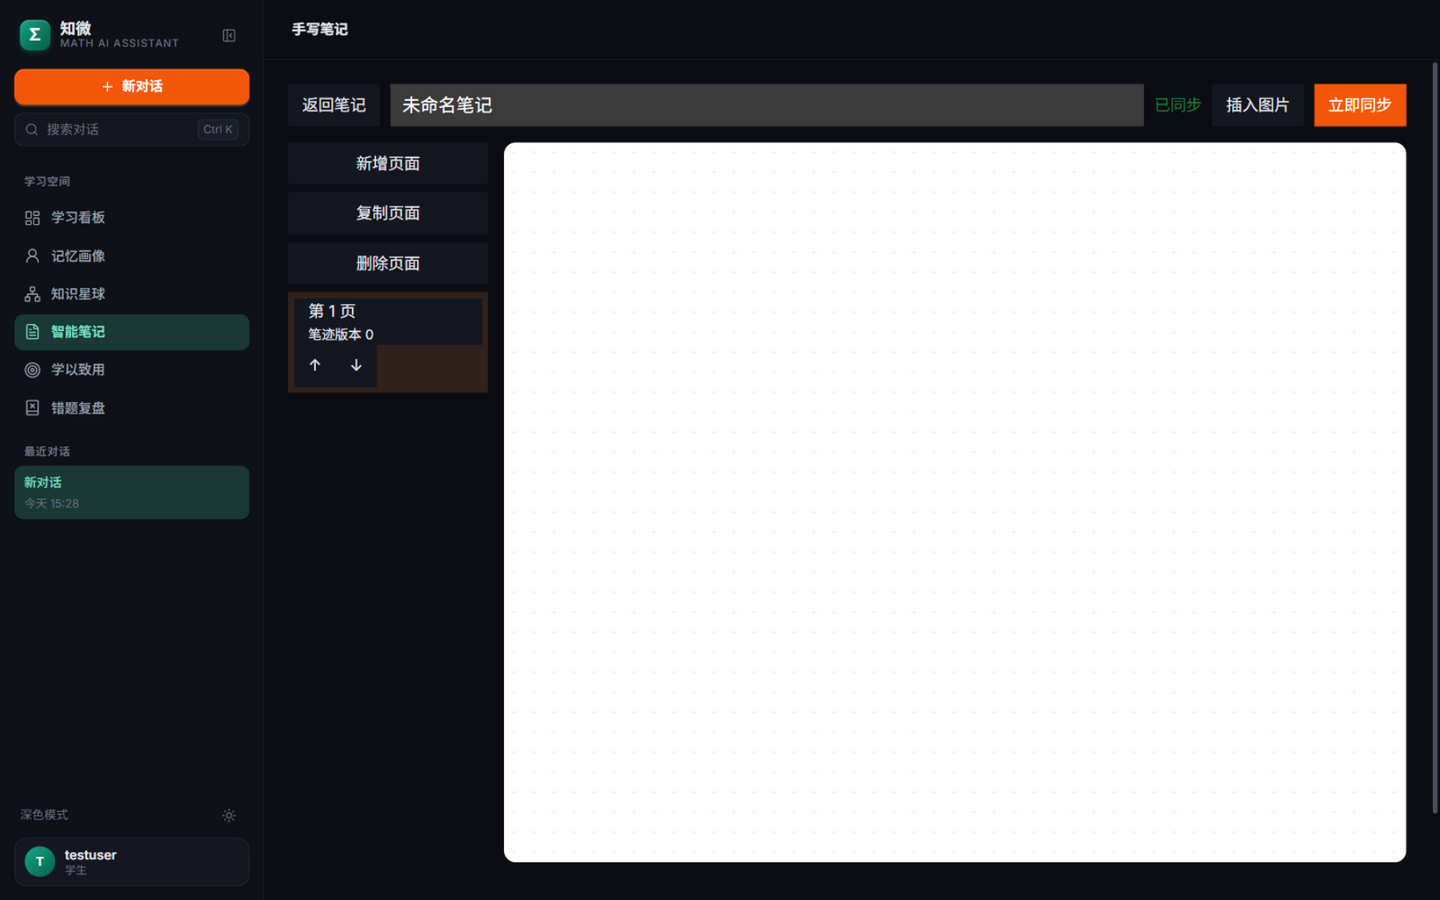
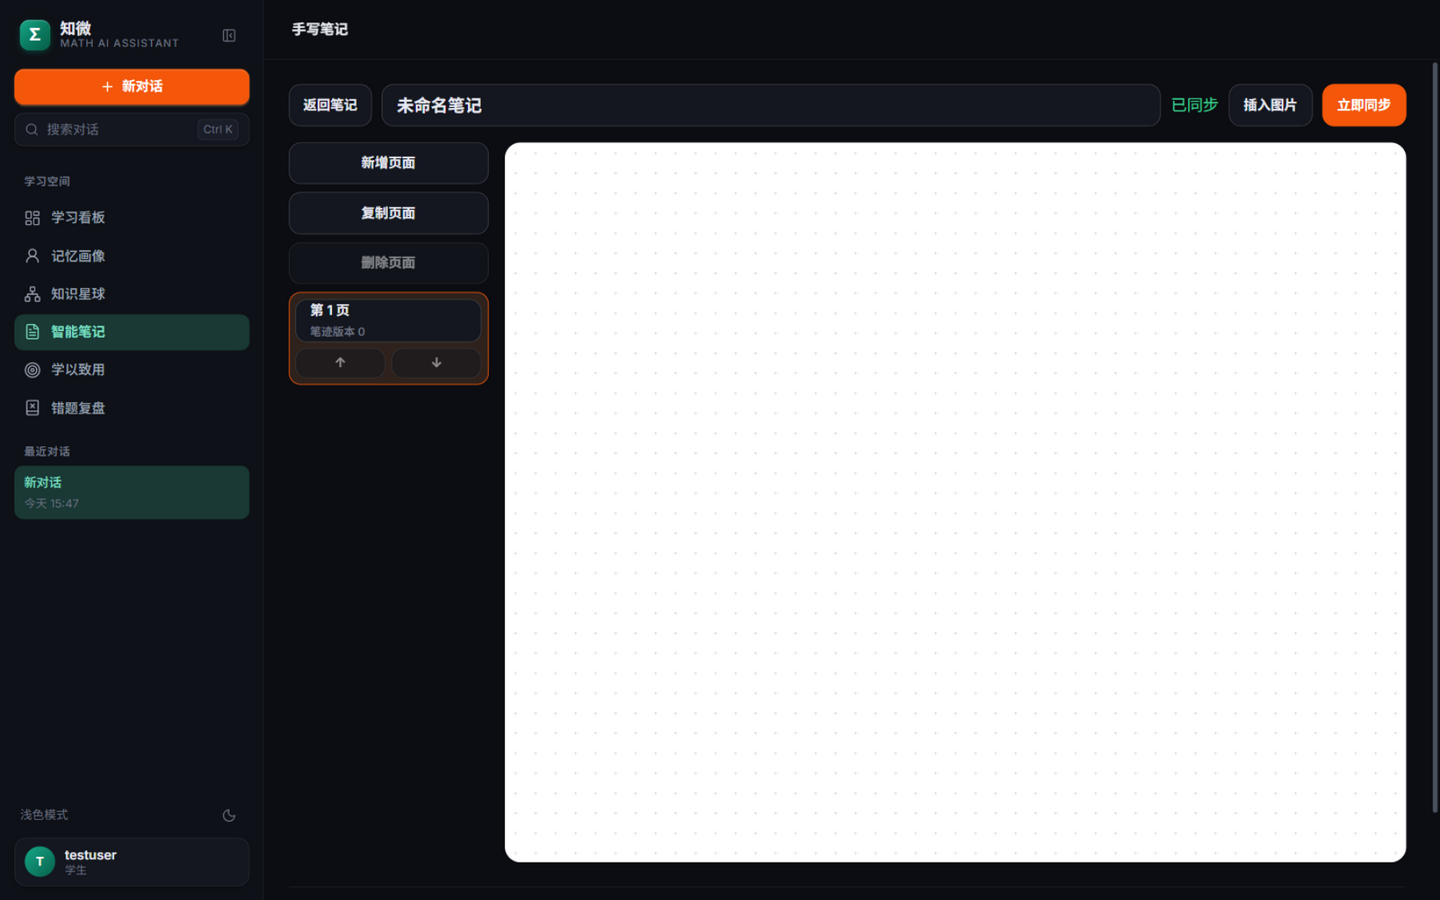
feat(design-v4) 笔记两页 V4 重皮
- 根因修复:两页沿用已删除的 V3 令牌名(--text-secondary/--border-subtle/
  --radius-sm 等),P5 删别名层后全部未定义,边框/颜色渲染失效;全量替换
  为 V4 令牌(ink/border/r-*/rose/green/teal/amber/shadow)
- 笔记库:page-head 字体阶梯、过滤条卡片化、笔记卡 shadow-1→hover
  shadow-2、空态/分页器/错误语义化,补 focus-visible 环与
  prefers-reduced-motion
- 手写工作台:工具栏/标题输入/同步状态语义色(绿=已同步,amber=离线,
  rose=冲突失败)、冲突面板 rose-soft 语义盒、页面缩略卡 accent 选中态、
  AI 建议卡令牌化;画布纸面固定浅色(笔迹墨色 #172554 深色,不随主题
  翻转),点阵色从靛蓝 #dbeafe 中性化为灰
- 模板与逻辑零改动,仅 style 块替换

验证:vitest 40 文件/145 用例、build、budget 全绿;亮暗 1440+375 走查
截图更新至 design-preview/qa/notes/(六张全量替换)

Changed region(s): [[0.1875, 0.0933, 0.9688, 0.1867], [0.1875, 0.28, 0.3438, 0.4356], [0.25, 0.2178, 0.3125, 0.2489]]

diff --git a/frontend/src/views/NoteWorkspaceView.vue b/frontend/src/views/NoteWorkspaceView.vue
@@ -48,4 +48,51 @@ function onVisibilityChange(){if(document.visibilityState==='hidden')persistBefo
 watch(strokes,()=>nextTick(render),{deep:true});onMounted(async()=>{await load();window.addEventListener('online',retry);document.addEventListener('visibilitychange',onVisibilityChange);window.addEventListener('beforeunload',persistBeforeExit)});onBeforeUnmount(()=>{persistBeforeExit();syncController?.dispose();window.removeEventListener('online',retry);document.removeEventListener('visibilitychange',onVisibilityChange);window.removeEventListener('beforeunload',persistBeforeExit)})
 </script>
 <template><AppShell><template #topbar-title>手写笔记</template><main class="workspace"><header><button @click="returnToOrigin">{{ route.query.from ? '返回学习内容' : '返回笔记' }}</button><input v-model="title" maxlength="200" aria-label="笔记标题" @change="rename"><span :class="status" role="status">{{ statusText }}</span><input ref="fileInput" class="sr-only" type="file" accept="image/png,image/jpeg,image/gif,image/webp" @change="uploadImage"><button @click="fileInput?.click()">插入图片</button><button v-if="status==='failed'||status==='offline'" @click="retry">重试同步</button><button class="primary" :disabled="status==='loading'||status==='syncing'||status==='conflict'" @click="save">立即同步</button></header><section v-if="conflict" class="conflict-panel" role="alert"><strong>发现版本冲突</strong><p>此页已在另一台设备或窗口更新。服务器版本 {{ conflict.serverRevision }} 与本机未同步笔迹都已保留。选择保留服务器版本，或将本机版本复制为新页面。</p><button @click="keepServer">保留服务器版本</button><button class="primary" @click="copyLocalAsNewPage">复制本地版本为新页面</button></section><p v-if="error" class="error">{{error}}</p><details v-if="syncLog.length" class="sync-log"><summary>同步记录（最近 {{ syncLog.length }} 条）</summary><ol><li v-for="entry in syncLog" :key="`${entry.at}-${entry.event}`">{{ new Date(entry.at).toLocaleString() }}：{{ entry.event }}</li></ol></details><div class="layout"><aside class="pages" aria-label="页面管理"><button @click="addPage">新增页面</button><button :disabled="!page" @click="copyCurrent">复制页面</button><button :disabled="pages.length<=1" @click="removeCurrent">删除页面</button><article v-for="(item,index) in pages" :key="item.page_id" class="thumb" :class="{active:item.page_id===page?.page_id}"><button class="preview" @click="openPage(item)"><span>第 {{item.page_number}} 页</span><small>笔迹版本 {{item.current_revision}}</small></button><div><button :disabled="!index" :aria-label="`上移第 ${item.page_number} 页`" @click="movePage(index,-1)">↑</button><button :disabled="index===pages.length-1" :aria-label="`下移第 ${item.page_number} 页`" @click="movePage(index,1)">↓</button></div></article></aside><section class="canvas-wrap"><canvas ref="canvas" aria-label="单页手写画布，仅支持触控笔书写" @pointerdown="down" @pointermove="move" @pointerup="up" @pointercancel="up"/><img v-for="asset in assets" :key="asset.asset_id" :src="asset.url" :alt="asset.filename" @error="error='图片加载失败，笔迹未受影响'"/></section></div><section class="suggestions" aria-labelledby="suggestions-title"><div><h2 id="suggestions-title">待确认的 AI 归类</h2><button :disabled="suggestionsLoading" @click="loadSuggestions">刷新</button></div><p v-if="suggestionsLoading" role="status">正在加载建议…</p><p v-else-if="!suggestions.some(item=>item.status==='suggested')">暂无待确认建议。低置信度结果不会自动归类。</p><article v-for="item in suggestions.filter(item=>item.status==='suggested')" :key="item.link_id"><strong>{{ item.knowledge_point_name || item.knowledge_point_code }}</strong><span>置信度 {{ Math.round(item.confidence * 100) }}%</span><label :for="`suggestion-${item.link_id}`">改为其他知识点 ID（可选）</label><input :id="`suggestion-${item.link_id}`" v-model="suggestionEdits[item.link_id]" placeholder="保留当前建议"><button class="primary" @click="confirmSuggestion(item)">确认</button><button class="danger" @click="rejectSuggestion(item)">拒绝</button></article><details v-if="suggestions.some(item=>item.status==='confirmed')"><summary>已确认关联（可撤销）</summary><article v-for="item in suggestions.filter(item=>item.status==='confirmed')" :key="item.link_id"><strong>{{ item.knowledge_point_name || item.knowledge_point_code }}</strong><span>{{ item.source==='manual' ? '人工确认' : 'AI 自动关联' }}</span><button class="danger" @click="rejectSuggestion(item)">撤销</button></article></details></section></main></AppShell></template>
-<style scoped>.workspace{max-width:1280px;margin:auto;padding:24px}.workspace header{display:flex;align-items:center;gap:10px}.workspace input{flex:1;min-height:42px;padding:0 12px;border:1px solid var(--border-subtle);border-radius:var(--radius-sm);font-size:18px}.workspace button{min-height:42px;padding:0 14px;border:1px solid var(--border-subtle);border-radius:var(--radius-sm);background:var(--surface);cursor:pointer}.workspace .primary{background:var(--accent);border-color:var(--accent);color:white}.workspace .danger{color:#b91c1c}.layout{display:grid;grid-template-columns:200px minmax(0,1fr);gap:16px;margin-top:16px}.pages{display:grid;align-content:start;gap:8px}.thumb,.suggestions article{border:1px solid var(--border-subtle);border-radius:var(--radius-sm);padding:6px}.thumb.active{border-color:var(--accent);background:var(--accent-soft)}.preview{width:100%;min-height:96px;display:grid;text-align:left;background:radial-gradient(#dbeafe 1px,transparent 1px) 0 0/12px 12px,#fff}.pages small{color:var(--text-secondary)}.canvas-wrap{height:calc(100vh - 180px);min-height:500px;border:1px solid var(--border-subtle);border-radius:12px;overflow:hidden;background:radial-gradient(#dbeafe 1px,transparent 1px) 0 0/20px 20px,#fff;touch-action:none}.canvas-wrap canvas{height:100%;width:100%;display:block;touch-action:none}.suggestions{margin-top:24px;border-top:1px solid var(--border-subtle);padding-top:16px}.suggestions>div,.suggestions article{display:flex;align-items:center;gap:10px;flex-wrap:wrap}.suggestions h2{margin:0;font-size:20px}.suggestions label{font-size:14px}.suggestions input{flex:1 1 240px}.synced{color:#15803d}.local,.offline,.failed,.conflict,.error{color:#b91c1c}.syncing{color:#0369a1}.error{margin:12px 0}@media(max-width:700px){.workspace{padding:12px}.workspace header{flex-wrap:wrap}.workspace header input{order:3;flex-basis:100%}.layout{grid-template-columns:1fr}.pages{grid-template-columns:repeat(3,minmax(0,1fr))}.canvas-wrap{height:65vh;min-height:360px}.suggestions article>*{flex-basis:100%}}</style>
+<style scoped>
+.workspace { max-width: 1280px; margin: auto; padding: 24px; }
+.workspace header { display: flex; align-items: center; gap: 10px; }
+.workspace header input { flex: 1; min-width: 0; min-height: 42px; padding: 0 14px; border: 1px solid var(--border-strong); border-radius: var(--r-m); background: var(--surface); color: var(--ink-1); font: inherit; font-size: 17px; font-weight: 600; }
+.workspace header input:focus-visible { outline: 2px solid var(--accent); outline-offset: 1px; }
+.workspace button { min-height: 42px; padding: 0 14px; border: 1px solid var(--border-strong); border-radius: var(--r-m); background: var(--surface); color: var(--ink-1); font: inherit; font-size: 13.5px; font-weight: 600; cursor: pointer; transition: background .15s ease, border-color .15s ease; }
+.workspace button:hover:not(:disabled) { border-color: var(--accent); color: var(--accent-text); }
+.workspace button:disabled { opacity: .55; cursor: not-allowed; }
+.workspace button:focus-visible { outline: 2px solid var(--accent); outline-offset: 2px; }
+.workspace .primary { background: var(--accent); border-color: var(--accent); color: #fff; }
+.workspace .primary:hover:not(:disabled) { background: var(--accent-strong); border-color: var(--accent-strong); color: #fff; }
+.workspace .danger { color: var(--rose); }
+.workspace .danger:hover:not(:disabled) { border-color: var(--rose); color: var(--rose); }
+.status { flex: 0 0 auto; color: var(--ink-2); font-size: 13px; font-weight: 600; }
+.synced { color: var(--green); }
+.syncing { color: var(--teal); }
+.local, .offline { color: var(--amber); }
+.failed, .conflict { color: var(--rose); }
+.conflict-panel { margin-top: 16px; padding: 18px 20px; border: 1px solid var(--rose); border-radius: var(--r-m); background: var(--rose-soft); }
+.conflict-panel strong { color: var(--rose); }
+.conflict-panel p { margin: 8px 0 12px; color: var(--ink-2); line-height: 1.6; }
+.sync-log { margin-top: 12px; color: var(--ink-2); font-size: 13px; }
+.sync-log summary { cursor: pointer; }
+.sync-log ol { margin: 8px 0 0; padding-left: 20px; line-height: 1.8; }
+.layout { display: grid; grid-template-columns: 200px minmax(0, 1fr); gap: 16px; margin-top: 16px; }
+.pages { display: grid; align-content: start; gap: 8px; }
+.pages > button { width: 100%; }
+.thumb { display: grid; gap: 6px; padding: 6px; border: 1px solid var(--border); border-radius: var(--r-m); background: var(--surface); }
+.thumb.active { border-color: var(--accent); background: var(--accent-soft); }
+.thumb > div { display: flex; gap: 6px; }
+.thumb > div button { flex: 1; min-height: 30px; padding: 0; }
+.preview { width: 100%; min-height: 96px; display: grid; align-content: center; gap: 2px; padding: 8px; border: 1px solid var(--border); border-radius: var(--r-s); text-align: left; font: inherit; cursor: pointer; color: var(--ink-1); /* 纸面固定浅色:笔迹墨色为深色(#172554),不随主题翻转 */ background: radial-gradient(#d8dee6 1px, transparent 1px) 0 0/12px 12px, #fff; }
+.preview small { color: var(--ink-3); }
+.canvas-wrap { height: calc(100vh - 180px); min-height: 500px; border: 1px solid var(--border); border-radius: var(--r-l); overflow: hidden; box-shadow: var(--shadow-1); touch-action: none; /* 纸面固定浅色,理由同 .preview */ background: radial-gradient(#d8dee6 1px, transparent 1px) 0 0/20px 20px, #fff; }
+.canvas-wrap canvas { height: 100%; width: 100%; display: block; touch-action: none; }
+.canvas-wrap img { max-width: 40%; border: 1px solid var(--border); border-radius: var(--r-s); }
+.suggestions { margin-top: 24px; border-top: 1px solid var(--border); padding-top: 16px; }
+.suggestions > div { display: flex; align-items: center; gap: 10px; flex-wrap: wrap; }
+.suggestions h2 { margin: 0; font-family: var(--font-disp); font-size: 20px; letter-spacing: -.02em; }
+.suggestions article { display: flex; align-items: center; gap: 10px; flex-wrap: wrap; margin-top: 10px; padding: 14px; border: 1px solid var(--border); border-radius: var(--r-m); background: var(--surface); }
+.suggestions article > span { color: var(--ink-3); font-size: 13px; }
+.suggestions label { flex-basis: 100%; color: var(--ink-2); font-size: 13px; }
+.suggestions input { flex: 1 1 240px; min-height: 38px; padding: 0 10px; border: 1px solid var(--border-strong); border-radius: var(--r-m); background: var(--surface); color: var(--ink-1); font: inherit; font-size: 13.5px; }
+.suggestions input:focus-visible { outline: 2px solid var(--accent); outline-offset: 1px; }
+.suggestions p { color: var(--ink-2); }
+.error { margin: 12px 0; color: var(--rose); }
+@media (max-width: 700px) { .workspace { padding: 12px; } .workspace header { flex-wrap: wrap; } .workspace header input { order: 3; flex-basis: 100%; } .layout { grid-template-columns: 1fr; } .pages { grid-template-columns: repeat(3, minmax(0, 1fr)); } .canvas-wrap { height: 65vh; min-height: 360px; } .suggestions article > * { flex-basis: 100%; } }
+</style>

diff --git a/frontend/src/views/NotesLibraryView.vue b/frontend/src/views/NotesLibraryView.vue
@@ -15,4 +15,36 @@ async function restore(note){try{await unwrapNote(await notesApi.restore(note.no
 function applyFilters(){offset.value=0;load()}watch([statusFilter,courseId,knowledgePointId,offset],()=>{sessionStorage.setItem('notes-status',statusFilter.value);sessionStorage.setItem('notes-course',courseId.value);sessionStorage.setItem('notes-kp',knowledgePointId.value);sessionStorage.setItem('notes-offset',String(offset.value));sessionStorage.setItem('notes-scroll',String(document.querySelector('.shell-content')?.scrollTop||0))});onMounted(async()=>{await load();requestAnimationFrame(()=>{const container=document.querySelector('.shell-content');if(container)container.scrollTop=Number(sessionStorage.getItem('notes-scroll')||0)})})
 </script>
 <template><AppShell><template #topbar-title>智能笔记</template><main class="page"><header><div><h1>我的笔记</h1><p>最近编辑的手写笔记。</p></div><button class="primary" :disabled="loading" @click="create">新建笔记</button></header><div class="filters"><label>状态 <select v-model="statusFilter" @change="applyFilters"><option value="active">进行中</option><option value="archived">已归档</option><option value="deleted">回收站</option></select></label><label>课程 ID <input v-model.trim="courseId" @change="applyFilters"></label><label>知识点 ID <input v-model.trim="knowledgePointId" @change="applyFilters"></label></div><p v-if="error" class="error">{{ error }}</p><p v-if="loading">正在加载…</p><section v-else class="notes"><article v-for="note in items" :key="note.note_id" class="note"><button @click="router.push(`/notes/${note.note_id}`)"><strong>{{ note.title }}</strong><span>版本 {{ note.current_revision }} · {{ new Date(note.updated_at).toLocaleString() }}</span></button><div class="actions"><button v-if="statusFilter==='active'" @click="archive(note)">归档</button><button v-if="statusFilter==='active'" @click="remove(note)">移至回收站</button><button v-if="statusFilter!=='active'" class="primary" @click="restore(note)">恢复笔记</button></div></article><div v-if="!items.length" class="empty"><h2>{{statusFilter==='deleted'?'回收站为空':'还没有笔记'}}</h2><p>{{statusFilter==='deleted'?'删除的笔记会在保留期后永久清理。':'从一页手写笔记开始。'}}</p><button v-if="statusFilter==='active'" class="primary" @click="create">新建第一篇笔记</button></div></section><nav v-if="total>limit" class="pager"><button :disabled="!offset" @click="move(-1)">上一页</button><span>{{offset+1}}–{{Math.min(offset+limit,total)}} / {{total}}</span><button :disabled="!canNext" @click="move(1)">下一页</button></nav></main></AppShell></template>
-<style scoped>.page{max-width:960px;margin:auto;padding:36px 24px 72px}.page>header{display:flex;justify-content:space-between;align-items:center;gap:20px}.page h1{margin:0}.page p{color:var(--text-secondary)}button{min-height:42px;padding:0 14px;border:1px solid var(--border-subtle);border-radius:var(--radius-sm);background:var(--surface);cursor:pointer}.primary{background:var(--accent);border-color:var(--accent);color:#fff}.notes{display:grid;gap:12px;margin-top:24px}.note{text-align:left;display:grid;gap:6px;padding:18px}.note span{color:var(--text-secondary);font-size:13px}.empty{text-align:center;padding:48px;border:1px dashed var(--border-subtle);border-radius:var(--radius-lg)}.error{color:var(--danger)!important}@media(max-width:600px){.page{padding:24px 16px}.page>header{align-items:flex-start;flex-direction:column}}</style>
+<style scoped>
+.page { max-width: 960px; margin: auto; padding: 36px 24px 72px; }
+.page > header { display: flex; justify-content: space-between; align-items: center; gap: 20px; }
+.page h1 { margin: 0; font-family: var(--font-disp); font-size: clamp(26px, 3vw, 34px); letter-spacing: -.03em; }
+.page > header p { margin: 6px 0 0; color: var(--ink-2); }
+button { min-height: 42px; padding: 0 14px; border: 1px solid var(--border-strong); border-radius: var(--r-m); background: var(--surface); color: var(--ink-1); font: inherit; font-size: 13.5px; font-weight: 600; cursor: pointer; transition: background .15s ease, border-color .15s ease, box-shadow .15s ease; }
+button:hover:not(:disabled) { border-color: var(--accent); color: var(--accent-text); }
+button:disabled { opacity: .55; cursor: not-allowed; }
+button:focus-visible { outline: 2px solid var(--accent); outline-offset: 2px; }
+.primary { background: var(--accent); border-color: var(--accent); color: #fff; }
+.primary:hover:not(:disabled) { background: var(--accent-strong); border-color: var(--accent-strong); color: #fff; }
+.filters { display: flex; flex-wrap: wrap; align-items: center; gap: 10px 14px; margin-top: 18px; padding: 14px 16px; border: 1px solid var(--border); border-radius: var(--r-m); background: var(--surface); box-shadow: var(--shadow-1); }
+.filters label { display: inline-flex; align-items: center; gap: 8px; color: var(--ink-2); font-size: 13px; font-weight: 600; }
+.filters select, .filters input { min-height: 38px; padding: 0 10px; border: 1px solid var(--border-strong); border-radius: var(--r-m); background: var(--surface); color: var(--ink-1); font: inherit; font-size: 13.5px; }
+.filters select:focus-visible, .filters input:focus-visible { outline: 2px solid var(--accent); outline-offset: 1px; }
+.notes { display: grid; gap: 12px; margin-top: 24px; }
+.note { display: grid; gap: 8px; padding: 18px; border: 1px solid var(--border); border-radius: var(--r-m); background: var(--surface); box-shadow: var(--shadow-1); transition: box-shadow .15s ease, transform .15s ease; }
+.note:hover { box-shadow: var(--shadow-2); transform: translateY(-1px); }
+.note > button { min-height: 0; padding: 0; border: 0; background: none; display: grid; gap: 6px; text-align: left; font: inherit; cursor: pointer; }
+.note > button:hover:not(:disabled) { border-color: transparent; color: var(--accent-text); }
+.note strong { color: var(--ink-1); font-size: 16px; }
+.note span { color: var(--ink-3); font-size: 13px; }
+.actions { display: flex; flex-wrap: wrap; gap: 8px; }
+.actions button { min-height: 34px; padding: 0 12px; font-size: 13px; }
+.empty { text-align: center; padding: 56px 32px; border: 1px dashed var(--border-strong); border-radius: var(--r-l); }
+.empty h2 { margin: 0; font-family: var(--font-disp); letter-spacing: -.02em; }
+.empty p { margin: 8px 0 18px; color: var(--ink-3); }
+.pager { display: flex; align-items: center; justify-content: center; gap: 14px; margin-top: 22px; }
+.pager span { color: var(--ink-2); font-size: 13.5px; font-variant-numeric: tabular-nums; }
+.error { color: var(--rose) !important; }
+@media (max-width: 600px) { .page { padding: 24px 16px 56px; } .page > header { align-items: flex-start; flex-direction: column; } }
+@media (prefers-reduced-motion: reduce) { .note, .note:hover { transition: none; transform: none; } }
+</style>
